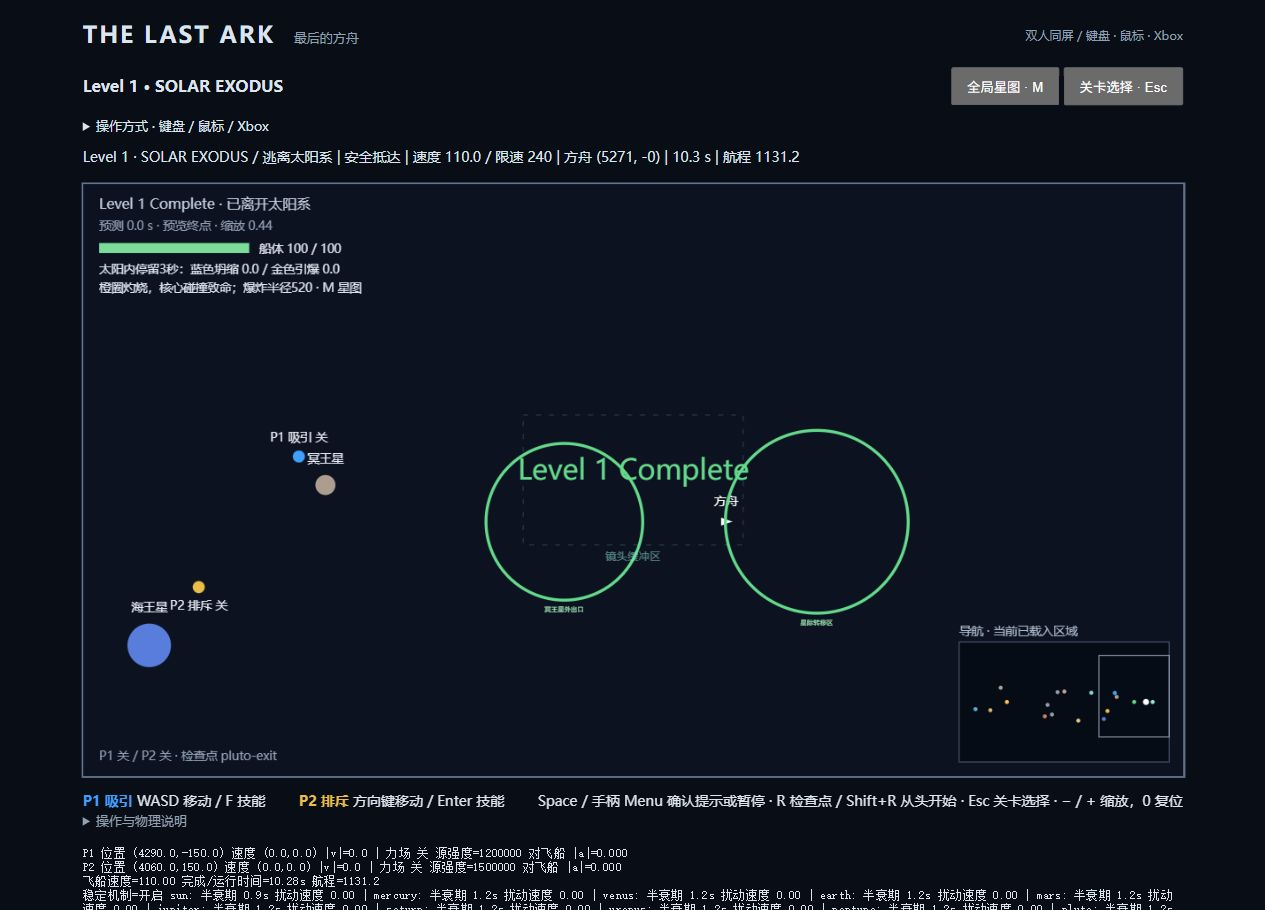
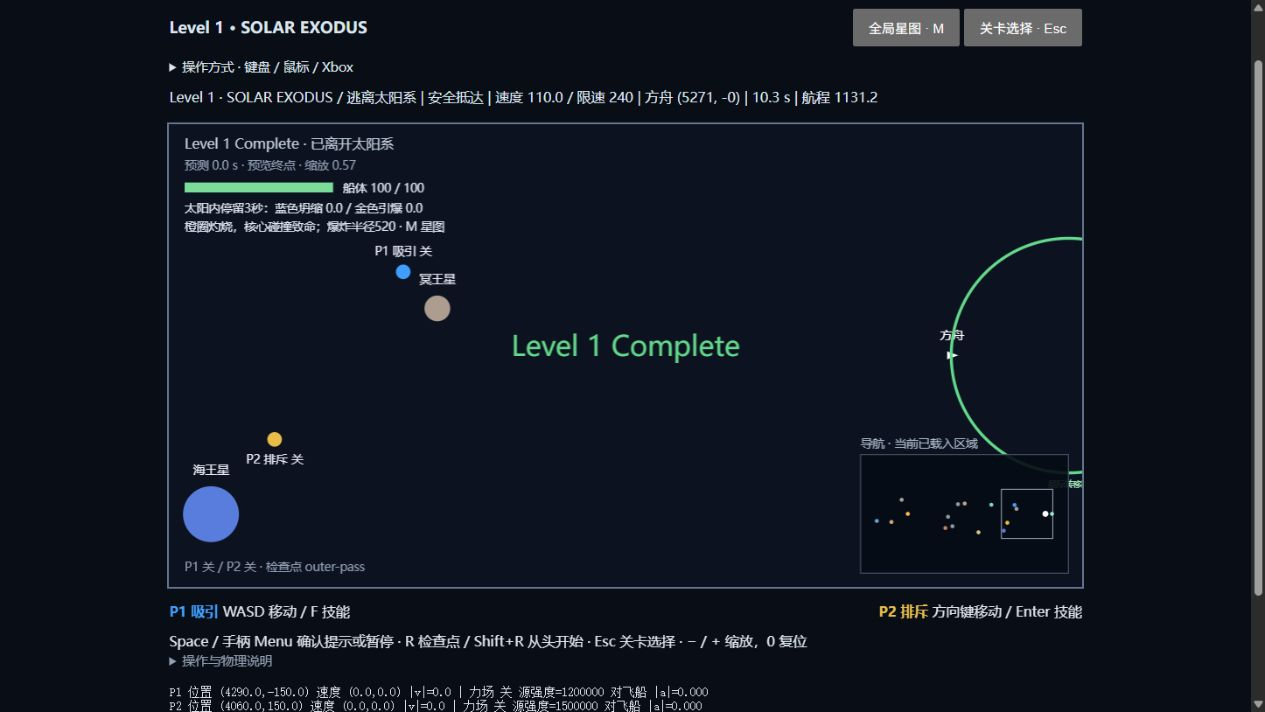
Restore group camera and rebalance solar hazards and heavy bodies

diff --git a/tests/solar-system.test.ts b/tests/solar-system.test.ts
@@ -17,7 +17,6 @@ import { starMapPoints } from '../src/render/star-map';
 import { developmentRegistry } from '../src/debug/config';
 import { scenes } from '../src/scenes/registry';
 import { createCamera, followGroup, viewBounds } from '../src/camera/camera';
-import { cameraFocus } from '../src/camera/director';
 import { intersects, circleBounds } from '../src/world/geometry';
 
 /** Feedback pilot controls only the two normal player intents, never the ship or planets. */
@@ -42,7 +41,7 @@ function pilot(game:GameState, speed=100, clearance=320) {
       return {targetWorldPosition:aim,abilityActive:aligned&&power>(index?23:6)};
     });
     stepGame(game,createControls(intents[0],intents[1]));
-    followGroup(camera,[game.bodies[0],...game.players],1/60,false,cameraFocus(game));
+    followGroup(camera,[game.bodies[0],...game.players],1/60);
     updateEncounters(game,viewBounds(camera));
   }
   return {phase:game.phase,stage,seconds:game.elapsed,position:game.bodies[0].position,hp:game.health?.current,message:game.message,objectives:game.mission.completedObjectives};
@@ -51,7 +50,7 @@ describe('Solar Exodus physical routes',()=>{
   for(const speed of [90,100,110])it(`flies a real cooperative route from Earth to interstellar space at ${speed}`,()=>{
     const game=createGame(solarSystem);const result=pilot(game,speed);
     expect(result.phase,JSON.stringify(result)).toBe('completed');expect(result.seconds).toBeLessThan(90);
-    expect(game.encounters).toContain('belt-approach');expect(game.mission.completedObjectives).toHaveLength(7);
+    expect(game.encounters).toContain('belt-approach');expect(game.mission.completedObjectives).toHaveLength(6);
   });
   for(const index of [0,1] as const)it(`can complete after ${index?'exploding':'collapsing'} the sun through real node travel and dwell`,()=>{
     const game=createGame(solarSystem),sun=game.bodies.find(b=>b.id==='sun')!;
@@ -148,12 +147,51 @@ describe('solar bodies, hazards and deterministic checkpoints',()=>{
     expect(length(sub(earth.position,sampleOrbit(earth.orbit!,earth.orbitTime!).position))).toBeGreaterThan(displaced);
     expect(length(earth.stabilizationState!.playerVelocity)).toBeLessThan(0.5);
   });
-  it('places both exit regions beyond the unperturbed Pluto orbit, with a clear gap',()=>{
-    const pluto=solarSystem.bodies.find(b=>b.id==='pluto')!;
-    for(const id of ['pluto-gate','interstellar']) {
-      const gate=solarSystem.bodies.find(b=>b.id===id)!;
-      expect(gate.position.x-gate.radius-(pluto.orbit!.center.x+pluto.orbit!.radius+pluto.radius)).toBeGreaterThan(200);
+  it('keeps only interstellar transfer as the final goal beyond Pluto',()=>{
+    const pluto=solarSystem.bodies.find(b=>b.id==='pluto')!,gate=solarSystem.bodies.find(b=>b.id==='interstellar')!;
+    expect(solarSystem.bodies.filter(b=>b.kind==='wormhole').map(b=>b.id)).toEqual(['interstellar']);
+    expect(solarSystem.mission!.objectives.at(-1)!.requires).toEqual(['outer-pass']);
+    expect(JSON.stringify(solarSystem)).not.toContain('pluto-gate');
+    expect(JSON.stringify(solarSystem)).not.toContain('pluto-exit');
+    expect(gate.position.x-gate.radius-(pluto.orbit!.center.x+pluto.orbit!.radius+pluto.radius)).toBeGreaterThan(200);
+  });
+  it('keeps unforced Mercury at constant solar distance for ten minutes, including more than two orbits',()=>{
+    const game=createGame(solarSystem),mercury=game.bodies.find(b=>b.id==='mercury')!,sun=game.bodies.find(b=>b.id==='sun')!;
+    const radius=length(sub(mercury.position,sun.position));let maxError=0;
+    for(let i=0;i<36000;i++) {
+      integrate([mercury,sun],game.players,1/60);
+      maxError=Math.max(maxError,Math.abs(length(sub(mercury.position,sun.position))-radius));
     }
+    expect(maxError).toBeLessThan(1e-6);
+    expect(mercury.receivesGravity).toBe(false);
+    expect(mercury.orbitTime).toBeCloseTo(600,5);
+  });
+  it('makes Jupiter and the Sun much harder to move without freezing them or limiting Jupiter displacement',()=>{
+    const perturb=(id:string)=>{
+      const game=createGame(solarSystem),body=game.bodies.find(b=>b.id===id)!;
+      const initial={...body.position};
+      for(let i=0;i<600;i++) {
+        game.players[0].position=add(body.position,{x:120,y:0});game.players[0].active=true;
+        integrate([body],game.players,1/60);
+      }
+      const base=body.orbit?sampleOrbit(body.orbit,body.orbitTime!).position:initial;
+      return {distance:length(sub(body.position,base)),body};
+    };
+    const earth=perturb('earth'),jupiter=perturb('jupiter'),sun=perturb('sun');
+    expect(jupiter.distance).toBeGreaterThan(1);
+    expect(jupiter.distance).toBeLessThan(earth.distance/8);
+    expect(sun.distance).toBeGreaterThan(0.1);
+    expect(sun.distance).toBeLessThan(jupiter.distance/5);
+    expect(jupiter.body.displacementLimit).toBeUndefined();expect(jupiter.body.orbit!.maxDrift).toBeUndefined();
+  });
+  it('burns beyond the old boundary and depletes a stationary ship near the core within two seconds',()=>{
+    const game=createGame(solarSystem),sun=game.bodies.find(b=>b.id==='sun')!,ship=game.bodies[0];
+    ship.position=add(sun.position,{x:0,y:300});
+    updateStellar(game,new Map(),1);expect(game.health!.current).toBeLessThan(90);
+    game.health!.current=100;ship.position=add(sun.position,{x:0,y:180});
+    expect(updateStellar(game,new Map(),2)).toContain('灼烧');expect(game.health!.current).toBe(0);
+    game.health!.current=100;ship.position=add(sun.position,{x:0,y:350});
+    updateStellar(game,new Map(),2);expect(game.health!.current).toBe(100);
   });
   it.each([600,6000,600000])('spawns the whole asteroid outside even a %s-unit-wide viewport and aims it inward',width=>{
     const game=createGame(solarSystem);game.bodies[0].position={x:2200,y:0};togglePause(game);

diff --git a/src/levels/solar-system.ts b/src/levels/solar-system.ts
@@ -4,10 +4,10 @@ import { createBody } from '../game/entities';
 import { sampleOrbit } from '../physics/orbits';
 import { seededRandom } from '../world/sectors';
 const center={x:900,y:0};
-function planet(id:string,name:string,x:number,y:number,radius:number,color:string,angularSpeed:number,ring=false):Body {
+function planet(id:string,name:string,x:number,y:number,radius:number,color:string,angularSpeed:number,ring=false,response=0.18):Body {
   const orbit={center:{...center},radius:Math.hypot(x-center.x,y),phase:Math.atan2(y,x-center.x),angularSpeed};
   const initial=sampleOrbit(orbit,0);
-  return createBody({id,kind:'planet',...initial,radius,orbit,orbitTime:0,receivesGravity:false,response:0.18,
+  return createBody({id,kind:'planet',...initial,radius,orbit,orbitTime:0,receivesGravity:false,response,
     gravityRadius:Math.max(150,radius*5),stabilization:{halfLife:1.2},appearance:{name,color,ring}});
 }
 const planets=[
@@ -15,7 +15,7 @@ const planets=[
   planet('venus','金星',400,200,37,'#d4af78',0.012),
   planet('earth','地球',-80,170,40,'#62a9de',0.005),
   planet('mars','火星',2100,190,31,'#ce8064',0.004),
-  planet('jupiter','木星',2700,-230,82,'#c3a58c',0.003),
+  planet('jupiter','木星',2700,-230,82,'#c3a58c',0.003,false,0.02),
   planet('saturn','土星',3150,260,68,'#dfc58f',0.0022,true),
   planet('uranus','天王星',3550,-200,52,'#84d3d6',0.0017),
   planet('neptune','海王星',3950,240,50,'#597ddc',0.0014),
@@ -30,17 +30,15 @@ const pass=(id:string,label:string,x:number,requires?:string[])=>({id,label,requ
 export const solarSystem:Level={
   id:'solar-exodus',name:'Level 1 · SOLAR EXODUS / 逃离太阳系',width:1100,height:620,seed:76127,shipHealth:100,
   mapBounds:{minX:-600,minY:-1000,maxX:6000,maxY:1000},decorations,
-  cameraLandmarks:[{entityId:'earth',range:550},{entityId:'sun',range:950},{entityId:'pluto',range:850},{entityId:'interstellar',range:850,showDeadZone:true}],
   players:structuredClone(firstLevel.players).map((p,i)=>({...p,position:i?{x:-200,y:140}:{x:60,y:-150}})) as Level['players'],
   bodies:[createBody({id:'ark',kind:'ship',radius:8,position:{x:-180,y:0},velocity:{x:110,y:0}}),
-    createBody({id:'sun',kind:'star',radius:100,position:center,response:0.025,receivesGravity:false,
+    createBody({id:'sun',kind:'star',radius:100,position:center,response:0.003,receivesGravity:false,
       gravityRadius:650,gravityStrength:2_400_000,gravitySoftening:100,stabilization:{halfLife:0.9},
       displacementLimit:{center:{...center},radius:60},appearance:{name:'太阳',color:'#ffbe55'},
-      stellar:{burnRadius:230,burnPerSecond:30,activationSeconds:3,blastRadius:520,remnantRadius:32,remnantGravityMultiplier:1.7,remnantResponse:0.35}}),
+      stellar:{burnRadius:340,burnPerSecond:80,activationSeconds:3,blastRadius:520,remnantRadius:32,remnantGravityMultiplier:1.7,remnantResponse:0.35}}),
     ...planets,
     ...[[-140,90],[100,-190],[40,250]].map(([x,y],i)=>createBody({id:`belt-rock-${i}`,kind:'asteroid',radius:17+i*3,
       position:{x:2400+x,y},velocity:{x:-8-i*2,y:i%2?4:-4},emitsGravity:false,stabilization:{halfLife:1.1},appearance:{name:'小行星',color:'#929ba6'}})),
-    createBody({id:'pluto-gate',kind:'wormhole',radius:180,position:{x:4900,y:0},appearance:{name:'冥王星外出口',color:'#64d98b'}}),
     createBody({id:'interstellar',kind:'wormhole',radius:210,position:{x:5480,y:0},appearance:{name:'星际转移区',color:'#94e9dc'}}),
   ],
   waves:[{id:'belt-approach',bounds:{minX:2160,maxX:2560,minY:-650,maxY:650},seed:441,count:2}],
@@ -50,11 +48,10 @@ export const solarSystem:Level={
     pass('inner-pass','内行星区域 · 前往火星与小行星带',2150,['sun-pass']),
     pass('belt-pass','小行星带 · 金场可清理来袭碎石',2700,['inner-pass']),
     pass('outer-pass','外行星区域 · 木星、土星、天王星、海王星',4150,['belt-pass']),
-    {id:'pluto-exit',label:'穿过冥王星附近的绿色出口',requires:['outer-pass'],target:{entityId:'pluto-gate'},condition:{type:'near_entity',entityId:'ark',targetId:'pluto-gate'}},
-    {id:'transfer',label:'到达星际转移区 · 完成太阳系逃逸',requires:['pluto-exit'],target:{entityId:'interstellar'},condition:{type:'near_entity',entityId:'ark',targetId:'interstellar'}},
-  ],triggers:['sun-pass','inner-pass','belt-pass','outer-pass','pluto-exit'].map(id=>({id:'checkpoint-'+id,
+    {id:'transfer',label:'到达星际转移区 · 完成太阳系逃逸',requires:['outer-pass'],target:{entityId:'interstellar'},condition:{type:'near_entity',entityId:'ark',targetId:'interstellar'}},
+  ],triggers:['sun-pass','inner-pass','belt-pass','outer-pass'].map(id=>({id:'checkpoint-'+id,
     condition:{type:'objective_complete' as const,objectiveId:id},actions:[{type:'checkpoint' as const,id}]}))},
 };
 
-export const solarSections={earth:{position:{x:-180,y:0},completed:[]},sun:{position:{x:600,y:-290},completed:['earth-depart']},
+export const solarSections={earth:{position:{x:-180,y:0},completed:[]},sun:{position:{x:600,y:-410},completed:['earth-depart']},
   belt:{position:{x:2110,y:-340},completed:['earth-depart','sun-pass']},pluto:{position:{x:4140,y:0},completed:['earth-depart','sun-pass','inner-pass','belt-pass']}};

diff --git a/src/camera/camera.ts b/src/camera/camera.ts
@@ -2,11 +2,7 @@ import type { Vec2 } from '../physics/vector';
 import { add, clamp, limit, scale, sub } from '../physics/vector';
 import type { Rect } from '../world/geometry';
 import { circleBounds, intersects } from '../world/geometry';
-export interface Camera { position: Vec2; zoom: number; width: number; height: number; preferredZoom?: number; velocity?: Vec2; showDeadZone?: boolean }
-export interface CameraFocus { position: Vec2; radius: number; weight: number; showDeadZone?: boolean }
-export function deadZone(camera: Camera): { x: number; y: number } {
-  return {x:Math.min(110,camera.width*0.12),y:Math.min(65,camera.height*0.12)};
-}
+export interface Camera { position: Vec2; zoom: number; width: number; height: number; preferredZoom?: number }
 export function createCamera(position: Vec2, width = 1100, height = 620): Camera { return { position: { ...position }, width, height, zoom: 0.8, preferredZoom:0.8 }; }
 export function follow(camera: Camera, position: Vec2, velocity: Vec2, dt: number, snap = false): void {
   const target = add(position, limit(scale(velocity, 0.65), 140));
@@ -17,39 +13,20 @@ export function resizeCamera(camera: Camera, width: number, height: number): voi
 export function setZoom(camera: Camera, zoom: number): void { if(Number.isFinite(zoom)){camera.zoom = clamp(zoom, Number.EPSILON, 2);camera.preferredZoom=camera.zoom;} }
 /** Frame every participant, anticipating movement. Zoom-in is capped, zoom-out has no design floor.
  * A final fit guard prevents smoothing/resize from temporarily hiding a participant. */
-export function followGroup(camera: Camera, participants: readonly {position:Vec2;velocity:Vec2;radius:number}[], dt: number, snap=false, focus?: CameraFocus): void {
+export function followGroup(camera: Camera, participants: readonly {position:Vec2;velocity:Vec2;radius:number}[], dt: number, snap=false): void {
   if(!participants.length)return;
   const points=participants.map(p=>add(p.position,scale(p.velocity,0.4)));
   const minX=Math.min(...points.map(p=>p.x)),maxX=Math.max(...points.map(p=>p.x));
   const minY=Math.min(...points.map(p=>p.y)),maxY=Math.max(...points.map(p=>p.y));
-  const groupCenter={x:(minX+maxX)/2,y:(minY+maxY)/2};
-  const weight=clamp(focus?.weight ?? 0,0,1);
-  const desired=focus ? add(groupCenter,scale(sub(focus.position,groupCenter),weight*0.8)) : groupCenter;
   const seconds=Math.max(0,Math.min(dt,0.25));
-  const zone=deadZone(camera), delta=sub(desired,camera.position);
-  // A screen-space dead zone absorbs small motion. Critically damped spring keeps
-  // velocity continuous when focus changes, with no camera writes to world state.
-  const target=add(camera.position,{x:Math.sign(delta.x)*Math.max(0,Math.abs(delta.x)-zone.x/camera.zoom),
-    y:Math.sign(delta.y)*Math.max(0,Math.abs(delta.y)-zone.y/camera.zoom)});
-  if(snap){camera.position={...desired};camera.velocity={x:0,y:0};}
-  else {
-    const omega=4.5,e=Math.exp(-omega*seconds),offset=sub(camera.position,target),v=camera.velocity??{x:0,y:0};
-    const temp=scale(add(v,scale(offset,omega)),seconds);
-    camera.position=add(target,scale(add(offset,temp),e));
-    camera.velocity=scale(sub(v,scale(temp,omega)),e);
-  }
-  camera.showDeadZone=!!focus?.showDeadZone;
+  const alpha=snap?1:1-Math.exp(-4*seconds);
+  camera.position=add(camera.position,scale(sub({x:(minX+maxX)/2,y:(minY+maxY)/2},camera.position),alpha));
   const margin=Math.min(85,camera.width*0.15,camera.height*0.18);
   const preferred=camera.preferredZoom ?? 0.8;
-  const framed=[...participants];
-  // Blend landmark framing continuously at its activation boundary. All three
-  // participants retain strict visibility priority even when an explorer is far away.
-  if(focus&&weight>0)framed.push({position:add(groupCenter,scale(sub(focus.position,groupCenter),weight)),radius:focus.radius*weight,velocity:{x:0,y:0}});
-  const fit=Math.min(preferred,...framed.flatMap(p=>[(camera.width/2-margin)/Math.max(1,Math.abs(p.position.x-camera.position.x)+p.radius+30),
-    (camera.height/2-margin)/Math.max(1,Math.abs(p.position.y-camera.position.y)+p.radius+30)]));
-  const zoomAlpha=snap?1:1-Math.exp(-(fit<camera.zoom?7:1.5)*Math.max(0,Math.min(dt,0.25)));
+  const fit=Math.min(preferred,(camera.width-2*margin)/Math.max(1,maxX-minX+80),(camera.height-2*margin)/Math.max(1,maxY-minY+80));
+  const zoomAlpha=snap?1:1-Math.exp(-(fit<camera.zoom?7:1.5)*seconds);
   camera.zoom+=(fit-camera.zoom)*zoomAlpha;
-  for(const p of framed) {
+  for(const p of participants) {
     camera.zoom=Math.min(camera.zoom,(camera.width/2-margin)/Math.max(1,Math.abs(p.position.x-camera.position.x)+p.radius),
       (camera.height/2-margin)/Math.max(1,Math.abs(p.position.y-camera.position.y)+p.radius));
   }

diff --git a/tests/camera.test.ts b/tests/camera.test.ts
@@ -55,8 +55,6 @@ describe('camera and navigation', () => {
   });
 });
 import { followGroup } from '../src/camera/camera';
-import { cameraFocus } from '../src/camera/director';
-import { solarSystem } from '../src/levels/solar-system';
 describe('cooperative automatic framing',()=>{
   const group=(spread:number)=>[{position:{x:0,y:0},velocity:{x:100,y:0},radius:8},{position:{x:spread,y:spread/2},velocity:{x:260,y:0},radius:13},{position:{x:-spread,y:-spread},velocity:{x:0,y:0},radius:13}];
   it('keeps all three participants in frame at any separation, even after resize',()=>{
@@ -72,31 +70,14 @@ describe('cooperative automatic framing',()=>{
     followGroup(camera,bodies,1/60);expect(camera.zoom).toBeGreaterThan(far);expect(camera.zoom).toBeLessThan(0.8);
     for(let i=0;i<1000;i++)followGroup(camera,bodies,1/60);expect(camera.zoom).toBeCloseTo(0.8);expect(bodies).toEqual(before);
   });
-  it('holds still for small motion inside the dead zone and buffers a changed target with continuous velocity',()=>{
-    const c=createCamera({x:0,y:0});
-    const body={position:{x:40,y:10},velocity:{x:0,y:0},radius:8};
-    for(let i=0;i<60;i++)followGroup(c,[body],1/60);
-    expect(c.position).toEqual({x:0,y:0});
-    body.position.x=1000;followGroup(c,[body],1/60);
-    expect(c.position.x).toBeGreaterThan(0);expect(c.position.x).toBeLessThan(10);
-    expect(c.velocity!.x).toBeGreaterThan(0);
-    const previous=c.position.x;followGroup(c,[body],1/60);expect(c.position.x).toBeGreaterThan(previous);
-  });
-  it('focuses nearby Earth, Sun, Pluto and exit without dropping players or altering physics',()=>{
-    for(const id of ['earth','sun','pluto','interstellar']) {
-      const game=createGame(solarSystem),body=game.bodies.find(b=>b.id===id)!;
-      game.bodies[0].position={x:body.position.x,y:body.position.y-200};
-      const before=structuredClone(game),focus=cameraFocus(game)!;
-      expect(focus.position).toEqual(body.position);
-      const camera=createCamera({x:0,y:0});
-      followGroup(camera,[game.bodies[0],...game.players],0,true,focus);
-      expect(camera.showDeadZone).toBe(id==='interstellar');
-      for(const entity of [body,game.bodies[0],...game.players]) {
-        const p=worldToScreen(camera,entity.position);
-        expect(p.x).toBeGreaterThan(0);expect(p.x).toBeLessThan(camera.width);
-        expect(p.y).toBeGreaterThan(0);expect(p.y).toBeLessThan(camera.height);
-      }
-      expect(game).toEqual(before);
-    }
+  it('converges without oscillating when participants remain stationary',()=>{
+    const c=createCamera({x:-1000,y:500}), bodies=group(800);
+    for(const body of bodies)body.velocity={x:0,y:0};
+    for(let i=0;i<1200;i++)followGroup(c,bodies,1/60);
+    const settled=structuredClone(c);
+    for(let i=0;i<600;i++)followGroup(c,bodies,1/60);
+    expect(c.position.x).toBeCloseTo(settled.position.x,9);
+    expect(c.position.y).toBeCloseTo(settled.position.y,9);
+    expect(c.zoom).toBeCloseTo(settled.zoom,9);
   });
 });

diff --git a/src/main.ts b/src/main.ts
@@ -17,7 +17,6 @@ import { predictTrajectory } from './game/trajectory';
 import type { Trajectory } from './game/trajectory';
 import { SceneController } from './scenes/controller';
 import { createCamera, followGroup, resizeCamera, setZoom, viewBounds } from './camera/camera';
-import { cameraFocus } from './camera/director';
 import { updateEncounters } from './world/encounters';
 import { scenes as registry } from './scenes/registry';
 import { developmentRegistry } from './debug/config';
@@ -88,7 +87,7 @@ function syncScene(): void {
   mapOpen=false;resumeAfterMap=false;
   mouse.setSuspended(false);
   const ship = scenes.game?.bodies.find(b => b.kind === 'ship');
-  if (ship) followGroup(camera,[ship,...scenes.game!.players],0,true,cameraFocus(scenes.game!));
+  if (ship) followGroup(camera,[ship,...scenes.game!.players],0,true);
   ui.update();
   if (scenes.game) resize();
 }
@@ -115,7 +114,7 @@ function frame(now: number): void {
       prediction = predictTrajectory(game); lastPredictionTime = now; predictionKey = nextKey;
     }
     const ship = game.bodies.find(b => b.kind === 'ship')!;
-    followGroup(camera,[ship,...game.players],seconds,false,cameraFocus(game));
+    followGroup(camera,[ship,...game.players],seconds);
     // Birth is presentation-aware; once born, normal fixed-step physics is camera-independent.
     // Use the exact final view rendered below, after group fit and landmark focus.
     if(!mapOpen&&game.phase==='running')updateEncounters(game,viewBounds(camera));

diff --git a/src/render/canvas.ts b/src/render/canvas.ts
@@ -3,7 +3,7 @@ import { length, sub } from '../physics/vector';
 import { speedLimit } from '../physics/world';
 import type { Trajectory } from '../game/trajectory';
 import type { Camera } from '../camera/camera';
-import { deadZone, isVisible, viewBounds } from '../camera/camera';
+import { isVisible, viewBounds } from '../camera/camera';
 import { edgeMarker, mapPoint, navigationBounds } from '../camera/navigation';
 import { objectivePosition } from '../game/mission';
 import { visibleEntities } from './visibility';
@@ -75,12 +75,6 @@ export function render(ctx: CanvasRenderingContext2D, game: GameState, trajector
     }
   }
   ctx.restore();
-  if(camera.showDeadZone) {
-    const zone=deadZone(camera);ctx.save();ctx.strokeStyle='#94e9dc35';ctx.setLineDash([5,8]);
-    ctx.strokeRect(width/2-zone.x,height/2-zone.y,zone.x*2,zone.y*2);ctx.setLineDash([]);
-    ctx.fillStyle='#94e9dc80';ctx.font='11px system-ui';ctx.textAlign='center';
-    ctx.fillText('镜头缓冲区',width/2,height/2+zone.y+15);ctx.restore();
-  }
   // Navigation and HUD are screen-space, never fed back into simulation.
   const marker = (position: {x:number;y:number}, label: string, color: string, margin = 30, labelOffset = 20) => {
     const edge = edgeMarker(camera, position, ship.position, margin); if (!edge) return;

diff --git a/src/scenes/registry.ts b/src/scenes/registry.ts
@@ -9,7 +9,7 @@ export const scenes: SceneRegistry = {
   prototype: { id: 'prototype', name: '原试玩 / 绕行与制动', description: '自由练习：绕过可移动行星，低速抵达空间港。', status: 'available', level: firstLevel },
   tutorial_part_1: { id: 'tutorial_part_1', name: 'Level 0 · First Contact', description: '从这里开始：学习吸引与排斥，将方舟送入虫洞。', status: 'available', level: firstContact },
   tutorial_part_2: { id: 'tutorial_part_2', name: 'Level 0 · The Moving World', description: '行星也会回应力场：合作避障，低速入港，完成序章。', status: 'available', level: movingWorld },
-  solar_system: { id: 'solar_system', name: 'Level 1 · SOLAR EXODUS', description:'地球起航、太阳绕行、小行星带、冥王星出口。M 查看全局星图。',status: 'available',level:solarSystem },
+  solar_system: { id: 'solar_system', name: 'Level 1 · SOLAR EXODUS', description:'地球起航、太阳绕行、小行星带，越过冥王星进入星际转移区。M 查看全局星图。',status: 'available',level:solarSystem },
   black_hole: { id: 'black_hole', name: 'Level 2 · Beyond the Horizon', status: 'planned' },
   endless: { id: 'endless', name: 'Endless Mode', status: 'planned' },
 };

diff --git a/src/game/types.ts b/src/game/types.ts
@@ -75,7 +75,6 @@ export interface Level {
   mode?: 'mission' | 'exploration';
   shipHealth?: number;
   decorations?: { position: Vec2; radius: number; color: string }[];
-  cameraLandmarks?: { entityId: string; range: number; showDeadZone?: boolean }[];
   waves?: { id: string; bounds: Rect; seed: number; count: number }[];
 }
 export type Phase = 'ready' | 'running' | 'paused' | 'completed' | 'failed';

diff --git a/README.md b/README.md
@@ -110,7 +110,7 @@ npm run check      # 测试 + 构建
 
 ```text
 src/
-  camera/    世界/屏幕变换、三人取景、地标导演、死区/弹簧缓冲、导航
+  camera/    世界/屏幕变换、三人取景、三人中心平滑跟随、导航
   scenes/    场景注册、显式转场、场景与游戏阶段分层
   game/      状态、任务触发器、教学、恒星危害/变换、检查点、固定时钟、预测
   physics/   独立节点动力学、引力、Verlet积分、稳定机制、扫掠碰撞
@@ -151,44 +151,51 @@ src/
 
 ## Level 1：Solar Exodus（2026-10-16）
 
-从地球附近 (-180,0) 以110单位/秒起航，经太阳危险绕行、内行星、小行星带、外行星，穿过冥王星外出口 (4900,0)，最后进入星际转移区 (5480,0)。两个出口半径分别180、210，不要求低速入港。冥王星初始(4350,-120)，出口位于其基础公转轨道最右端之外，留有明确空隙；它不在终点圈里。玩家主动把冥王星推到出口仍是合法物理行为，不会因此把出口偷偷挪走。
+从地球附近 (-180,0) 以110单位/秒起航，经太阳危险绕行、内行星、小行星带、外行星，进入唯一终点——星际转移区 (5480,0)，半径210，不要求低速入港。冥王星初始(4350,-120)，出口位于其基础公转轨道最右端之外，留有明确空隙；它不在终点圈里。已删除冥王星外的中间出口及其必经条件。玩家主动把冥王星推到终点仍是合法物理行为，不会因此把终点偷偷挪走。
 
-太阳、水星、金星、地球、火星、木星、土星、天王星、海王星和冥王星都存在于世界和星图中。初始布局沿主要前进方向压缩排列，不是天文学比例。太阳处在地球与出口之间。阶段目标用宽广世界区域判断，绕行路线没有狭窄轨道锁定，也没有屏幕/世界出界失败。通过太阳、内行星、带区、外行星和冥王星出口时保存检查点。完成只显示 Level 1 Complete，不进入尚未实现的下一章。
+太阳、水星、金星、地球、火星、木星、土星、天王星、海王星和冥王星都存在于世界和星图中。初始布局沿主要前进方向压缩排列，不是天文学比例。太阳处在地球与出口之间。阶段目标用宽广世界区域判断，绕行路线没有狭窄轨道锁定，也没有屏幕/世界出界失败。通过太阳、内行星、带区和外行星时保存检查点。完成只显示 Level 1 Complete，不进入尚未实现的下一章。
 
 ### 太阳与轨道近似
 
-- 太阳半径100、引力范围650、热区半径230。方舟100HP，热伤害按接近程度从0渐增至30HP/秒；触及核心直接失败。无自动回血。
+- 太阳半径100、引力范围650、热区半径340。方舟100HP，热伤害按接近程度从0渐增至80HP/秒；触及核心直接失败。无自动回血。
 - 金色节点在太阳内部连续停留3秒：太阳引爆，半径520内的方舟失败；其他天体没有爆炸冲量。方舟在范围外则继续；太阳消失后自然不再提供引力。
 - 蓝色节点内部停留3秒：坍缩为半径32的中子星，引力强度变为1.7倍、响应提高至0.35、无热伤害。无需开启技能，只判断节点位置。两节点同时在内部则相互抵消计时；离开重置，暂停冻结计时。
 - **普通行星没有推动距离上限**。近圆轨道是确定性解析基础运动，加上实际积分的玩家速度扰动和累计位移。离开有效场后，只衰减玩家速度扰动（半衰期1.2秒），不会把已改变的位置弹回轨道，也不会停止基础公转。
-- 太阳仍保留先前指定的稳定约束：response=0.025、扰动半衰期0.9秒、距初始中心最多60；中子星对应320。它与普通行星无距离限制的行为通过配置区分。
+- 木星响应从0.18降至0.02，约难推动9倍，仍没有移动距离上限。太阳响应约为此前的12%，仍能微弱推动。太阳保留先前指定的稳定约束：response=0.003、扰动半衰期0.9秒、距初始中心最多60；中子星对应320。它与普通行星无距离限制的行为通过配置区分。
 - 行星间不模拟完整N体引力，解析轨道天体不接收环境引力，但都用实际位置向飞船发出有限范围的引力，接受两个玩家的统一力场。轨道中心固定在初始太阳位置，不随其微弱位移移动。这是游戏化轨道模型；引力辅助没有额外速度奖励。
 
 ### 来袭小行星与镜头
 
-带区包含100颗纯背景碎石、3颗实际运动陨石，另有一次2颗来袭事件，物理天体数量16→18。事件区域只负责触发时机，**生成位置使用当帧最终摄像机矩形**，整颗陨石在右侧屏幕外并留出至少180世界单位、或视野宽度15%的安全空隙。之后以55单位/秒朝出生时方舟位置飞行，不追踪、不瞬移，接受正常技能与扫掠碰撞。暂停/星图期间不刷新。
+带区包含100颗纯背景碎石、3颗实际运动陨石，另有一次2颗来袭事件，物理天体数量15→17。事件区域只负责触发时机，**生成位置使用当帧最终摄像机矩形**，整颗陨石在右侧屏幕外并留出至少180世界单位、或视野宽度15%的安全空隙。之后以55单位/秒朝出生时方舟位置飞行，不追踪、不瞬移，接受正常技能与扫掠碰撞。暂停/星图期间不刷新。
 
 随机形状/序列由种子决定；同种子、同视野才有相同的生成位置。视野只参与“在哪里出生”，不会改变既有天体的物理积分。极度拉远时来袭路程会变长。轨迹预测包含已出生的小行星，**不预测尚未生成、依赖未来视野的来袭事件**。
 
-镜头始终优先保留方舟与两位玩家，分散时自动拉远，没有固定的最小缩放值；聚合时缓慢拉近，默认近景上限0.8（可用 +/- 调整，最高2）。地球、太阳、冥王星附近加入地标取景，太阳区域会把太阳及热区纳入画面，不强制移动玩家。镜头中心有屏幕死区和带速度缓冲的临界阻尼跟随；终点附近显示淡色“镜头缓冲区”，它没有伤害或碰撞作用。小地图与 M 星图用于查看远处天体；极远视角保留节点/方舟最小标记。
+镜头始终优先保留方舟与两位玩家，分散时自动拉远，没有固定的最小缩放值；聚合时缓慢拉近，默认近景上限0.8（可用 +/- 调整，最高2）。已经撤回地标取景、中央死区及弹簧缓冲，恢复三人前瞻包围盒中心的指数平滑跟随，不再切到太阳/地球/冥王星，也不显示终点镜头框。小地图与 M 星图用于查看远处天体；极远视角保留节点/方舟最小标记。
 
 ### 可行路线与验收
 
-基础路线：先在太阳上方 y≈-320 绕行，沿 x≈450→1000→1450 前进；随后沿 y≈-340 经过 x≈2100→3000→4170，再转向 (4900,0) 和 (5480,0)。蓝场放在希望前进的一侧引导，金场从反方向推动/清障；技能会干扰附近行星，需看预测并适时关闭。可暂停部署节点。中子星路线建议增加至 y≈-520 的余量，避免更强引力和受扰动水星。
+基础路线：先在太阳上方 y≈-320 绕行，沿 x≈450→1000→1450 前进；随后沿 y≈-340 经过 x≈2100→3000→4170，再转向唯一终点 (5480,0)。蓝场放在希望前进的一侧引导，金场从反方向推动/清障；技能会干扰附近行星，需看预测并适时关闭。可暂停部署节点。中子星路线建议增加至 y≈-520 的余量，避免更强引力和受扰动水星。
 
-- 最新 `npm run check`：**242项测试、16个文件全部通过**，严格类型检查与生产构建通过。
+- 最新 `npm run check`：**244项测试、16个文件全部通过**，严格类型检查与生产构建通过。
 - 自动反馈驾驶只输出两玩家正常意图，不设置飞船/行星坐标或速度：90/100/110三个巡航策略、太阳引爆/坍缩两条路线、太阳/带区/冥王星三个分段全部完成，常规完整路线均小于90秒。它证明基础可行解，不能代替真人合作难度评估。
-- 保留上阶段全部 Level0/原试玩/合作场景回归。新回归覆盖普通行星持续移动超过5000单位、松场后只减速不回位、鼠标点按锁定制动、摇杆回中后持续10秒不漂移、超宽镜头屏外出生、死区与地标取景、热伤害、变换、检查点、扫掠碰撞。
+- 保留上阶段全部 Level0/原试玩/合作场景回归。新回归覆盖普通行星持续移动超过5000单位、松场后只减速不回位、鼠标点按锁定制动、摇杆回中后持续10秒不漂移、超宽镜头屏外出生、静止镜头无持续振荡、热伤害、变换、检查点、扫掠碰撞。
 - Xbox 测试使用标准API模拟报文；本机没有接入实体Xbox进行验收。实际摇杆磨损、驱动和双人手感仍需要用户试玩。
 
-![太阳区域取景与热区](docs/solar-sun.png)
+![恢复原跟随后的太阳热区（手动缩小视角）](docs/solar-sun.png)
 
 
-浏览器本轮实测：太阳区域取景、全局星图、右键点按制动/再次恢复，以及冥王星开发分段以真实惯性飞行约10.3秒后完成。完整太阳系主线由上述物理仿真验证，未声称已用两个真人完整通关。
+上一轮浏览器实测包括鼠标点按制动与全局星图。本轮重新检查恢复后的镜头和扩大热区，并验证删除中间出口后的终点段。完整太阳系主线由上述物理仿真验证，未声称已用两个真人完整通关。
 
-![冥王星外出口、终点与镜头缓冲区](docs/solar-exit.png)
+![唯一星际转移区终点](docs/solar-exit.png)
 ![全局星图](docs/solar-map.png)
 
 远距离鼠标探索实测：P1 到达 x≈28879 后，右键点按平滑停至速度0；方舟和 P2 保持可见。
 
 ![三人远距离自动取景](docs/group-camera.png)
+
+
+### 最新调整与水星核查
+
+水星在双场关闭时进行了600秒固定步积分（超过两圈公转），与太阳的距离误差小于0.000001世界单位，没有复现自行落入太阳。保留解析轨道与 `receivesGravity=false`，不把太阳加速度再算一遍。节点不移动但技能仍开着时，会继续影响水星——“不移动节点”不等于“没有施力”，仍须 F / Enter / A / 鼠标左键关闭对应场。
+
+新增测试还比较了等时、等距离施力下木星/太阳的实际位移，并检查距太阳300单位已会掉血、180单位附近100HP不到2秒耗尽、350单位安全。原有三条完整主线、恒星变换和分段可行解仍通过。推荐玩家采用更宽的绕行余量；太阳开发起点调整到(600,-410)，避免起跑就逼近扩大后的热区。
